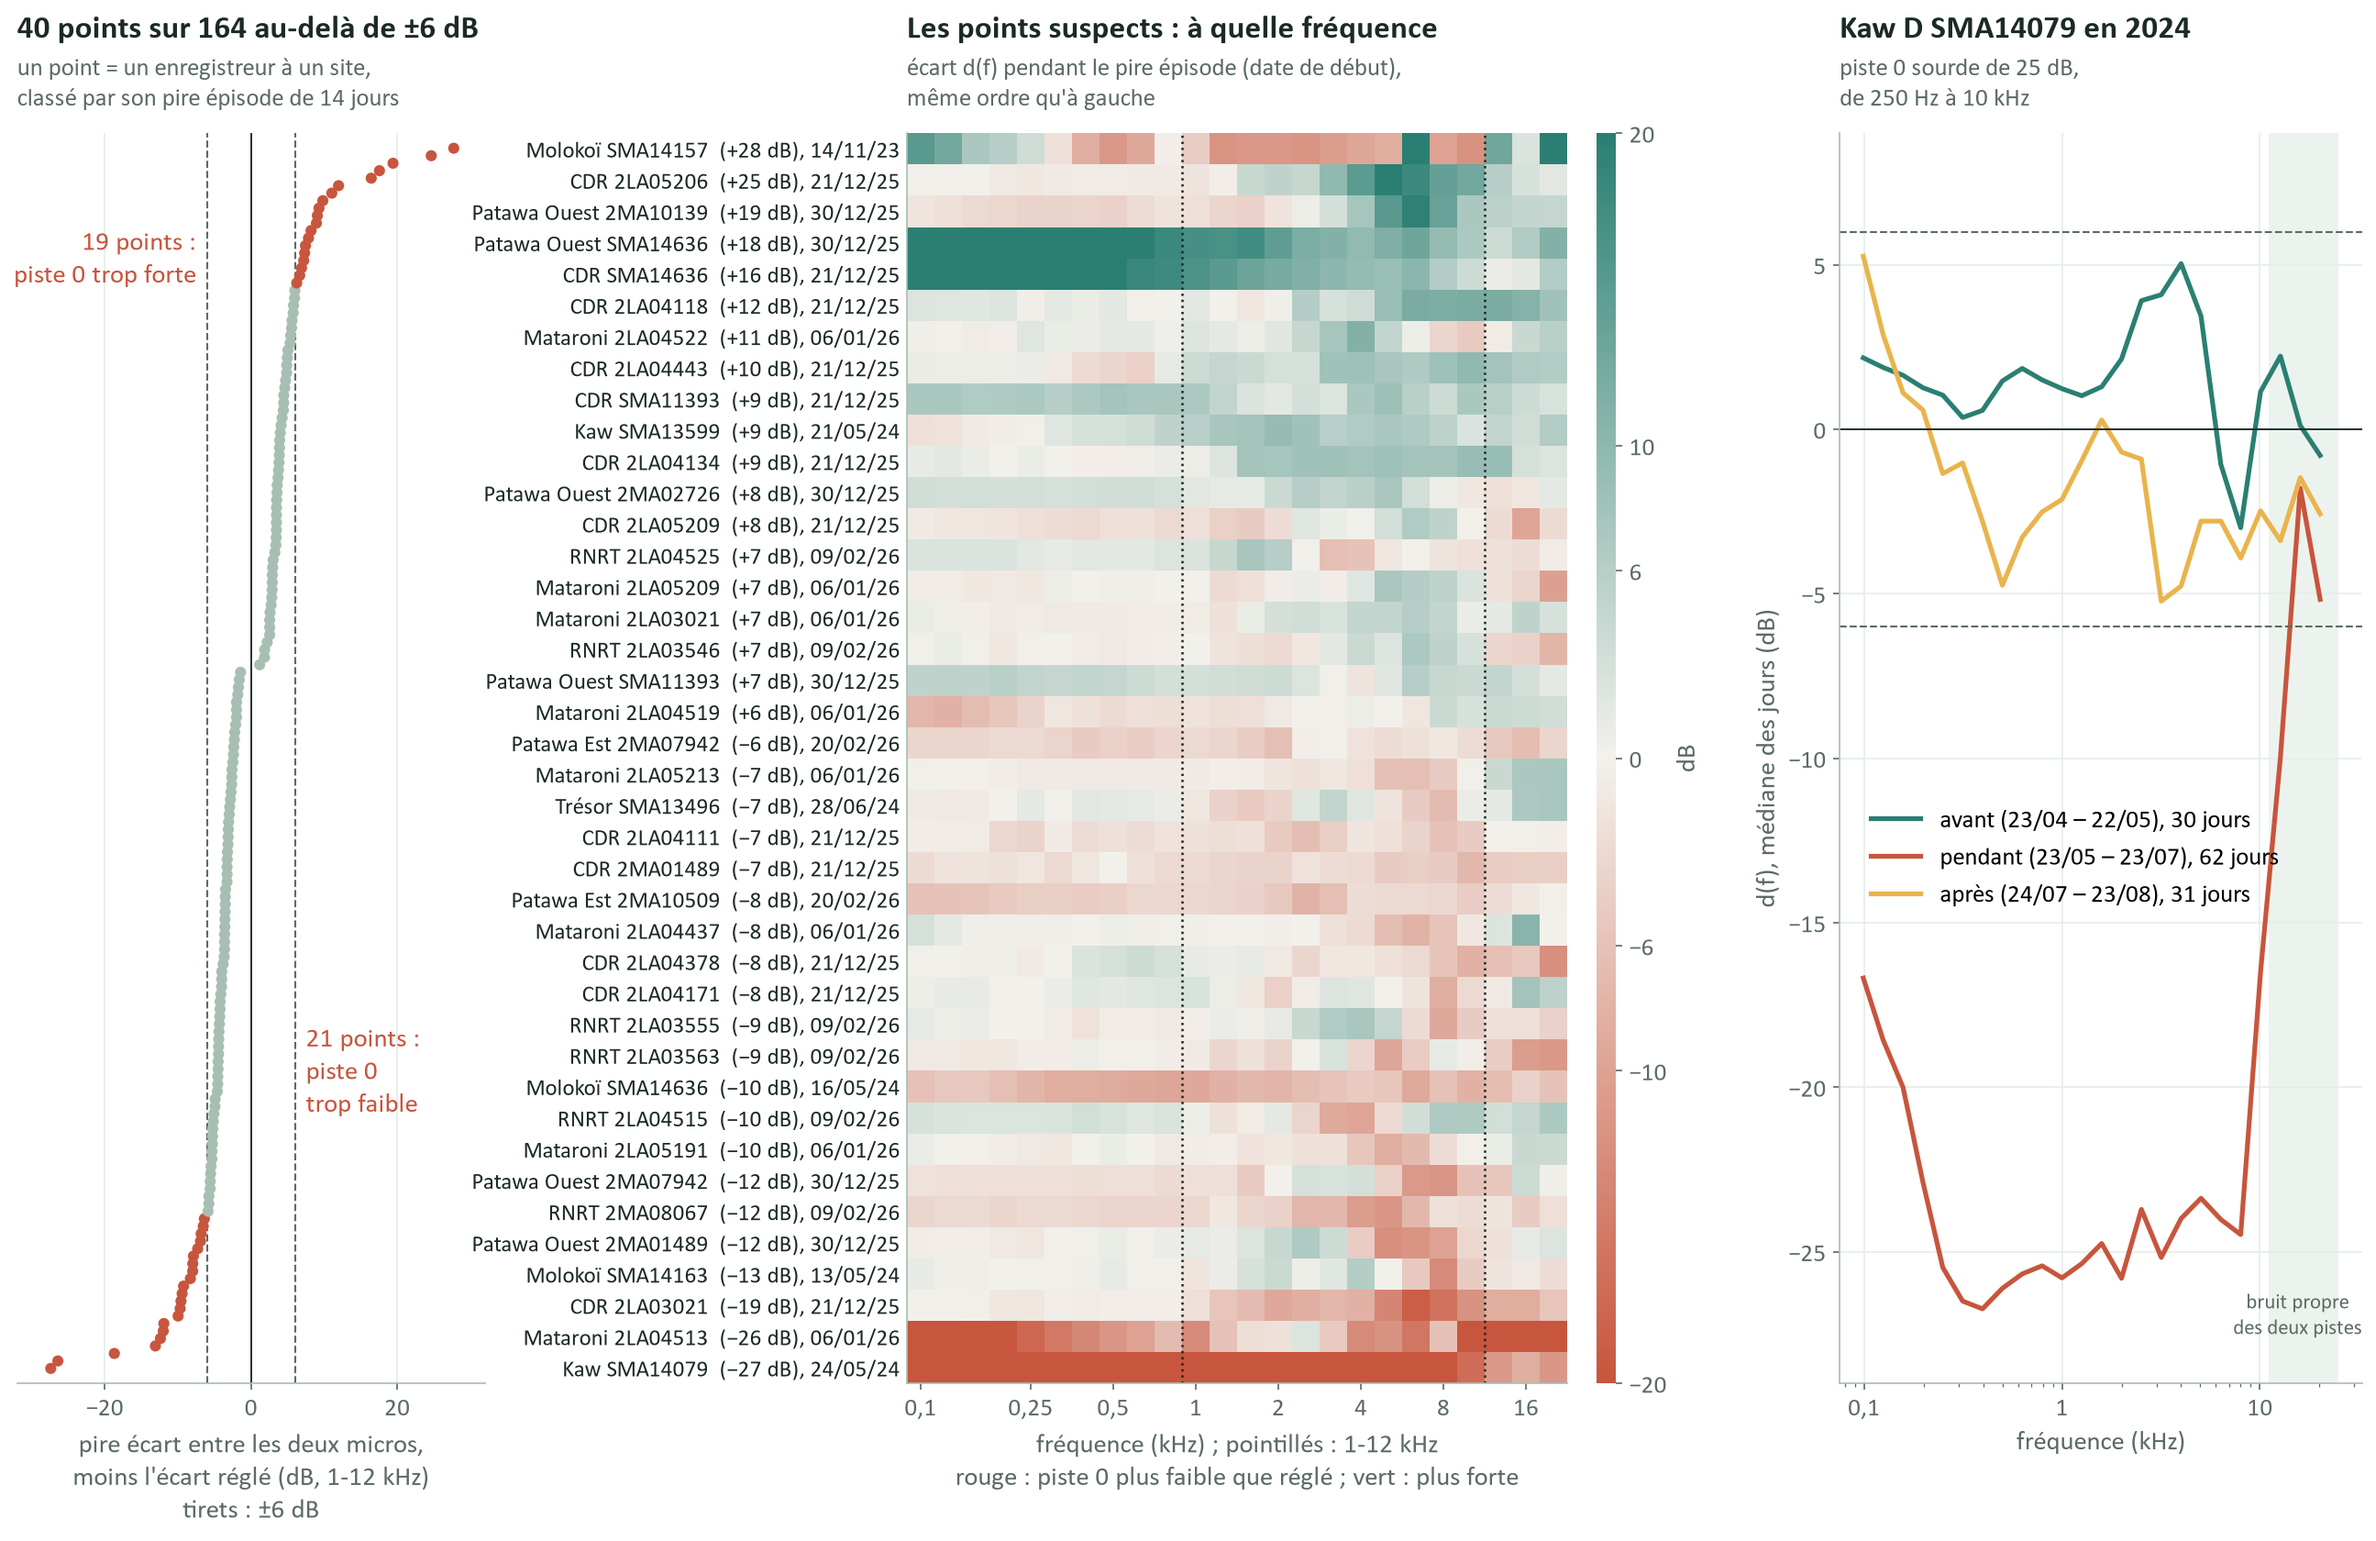
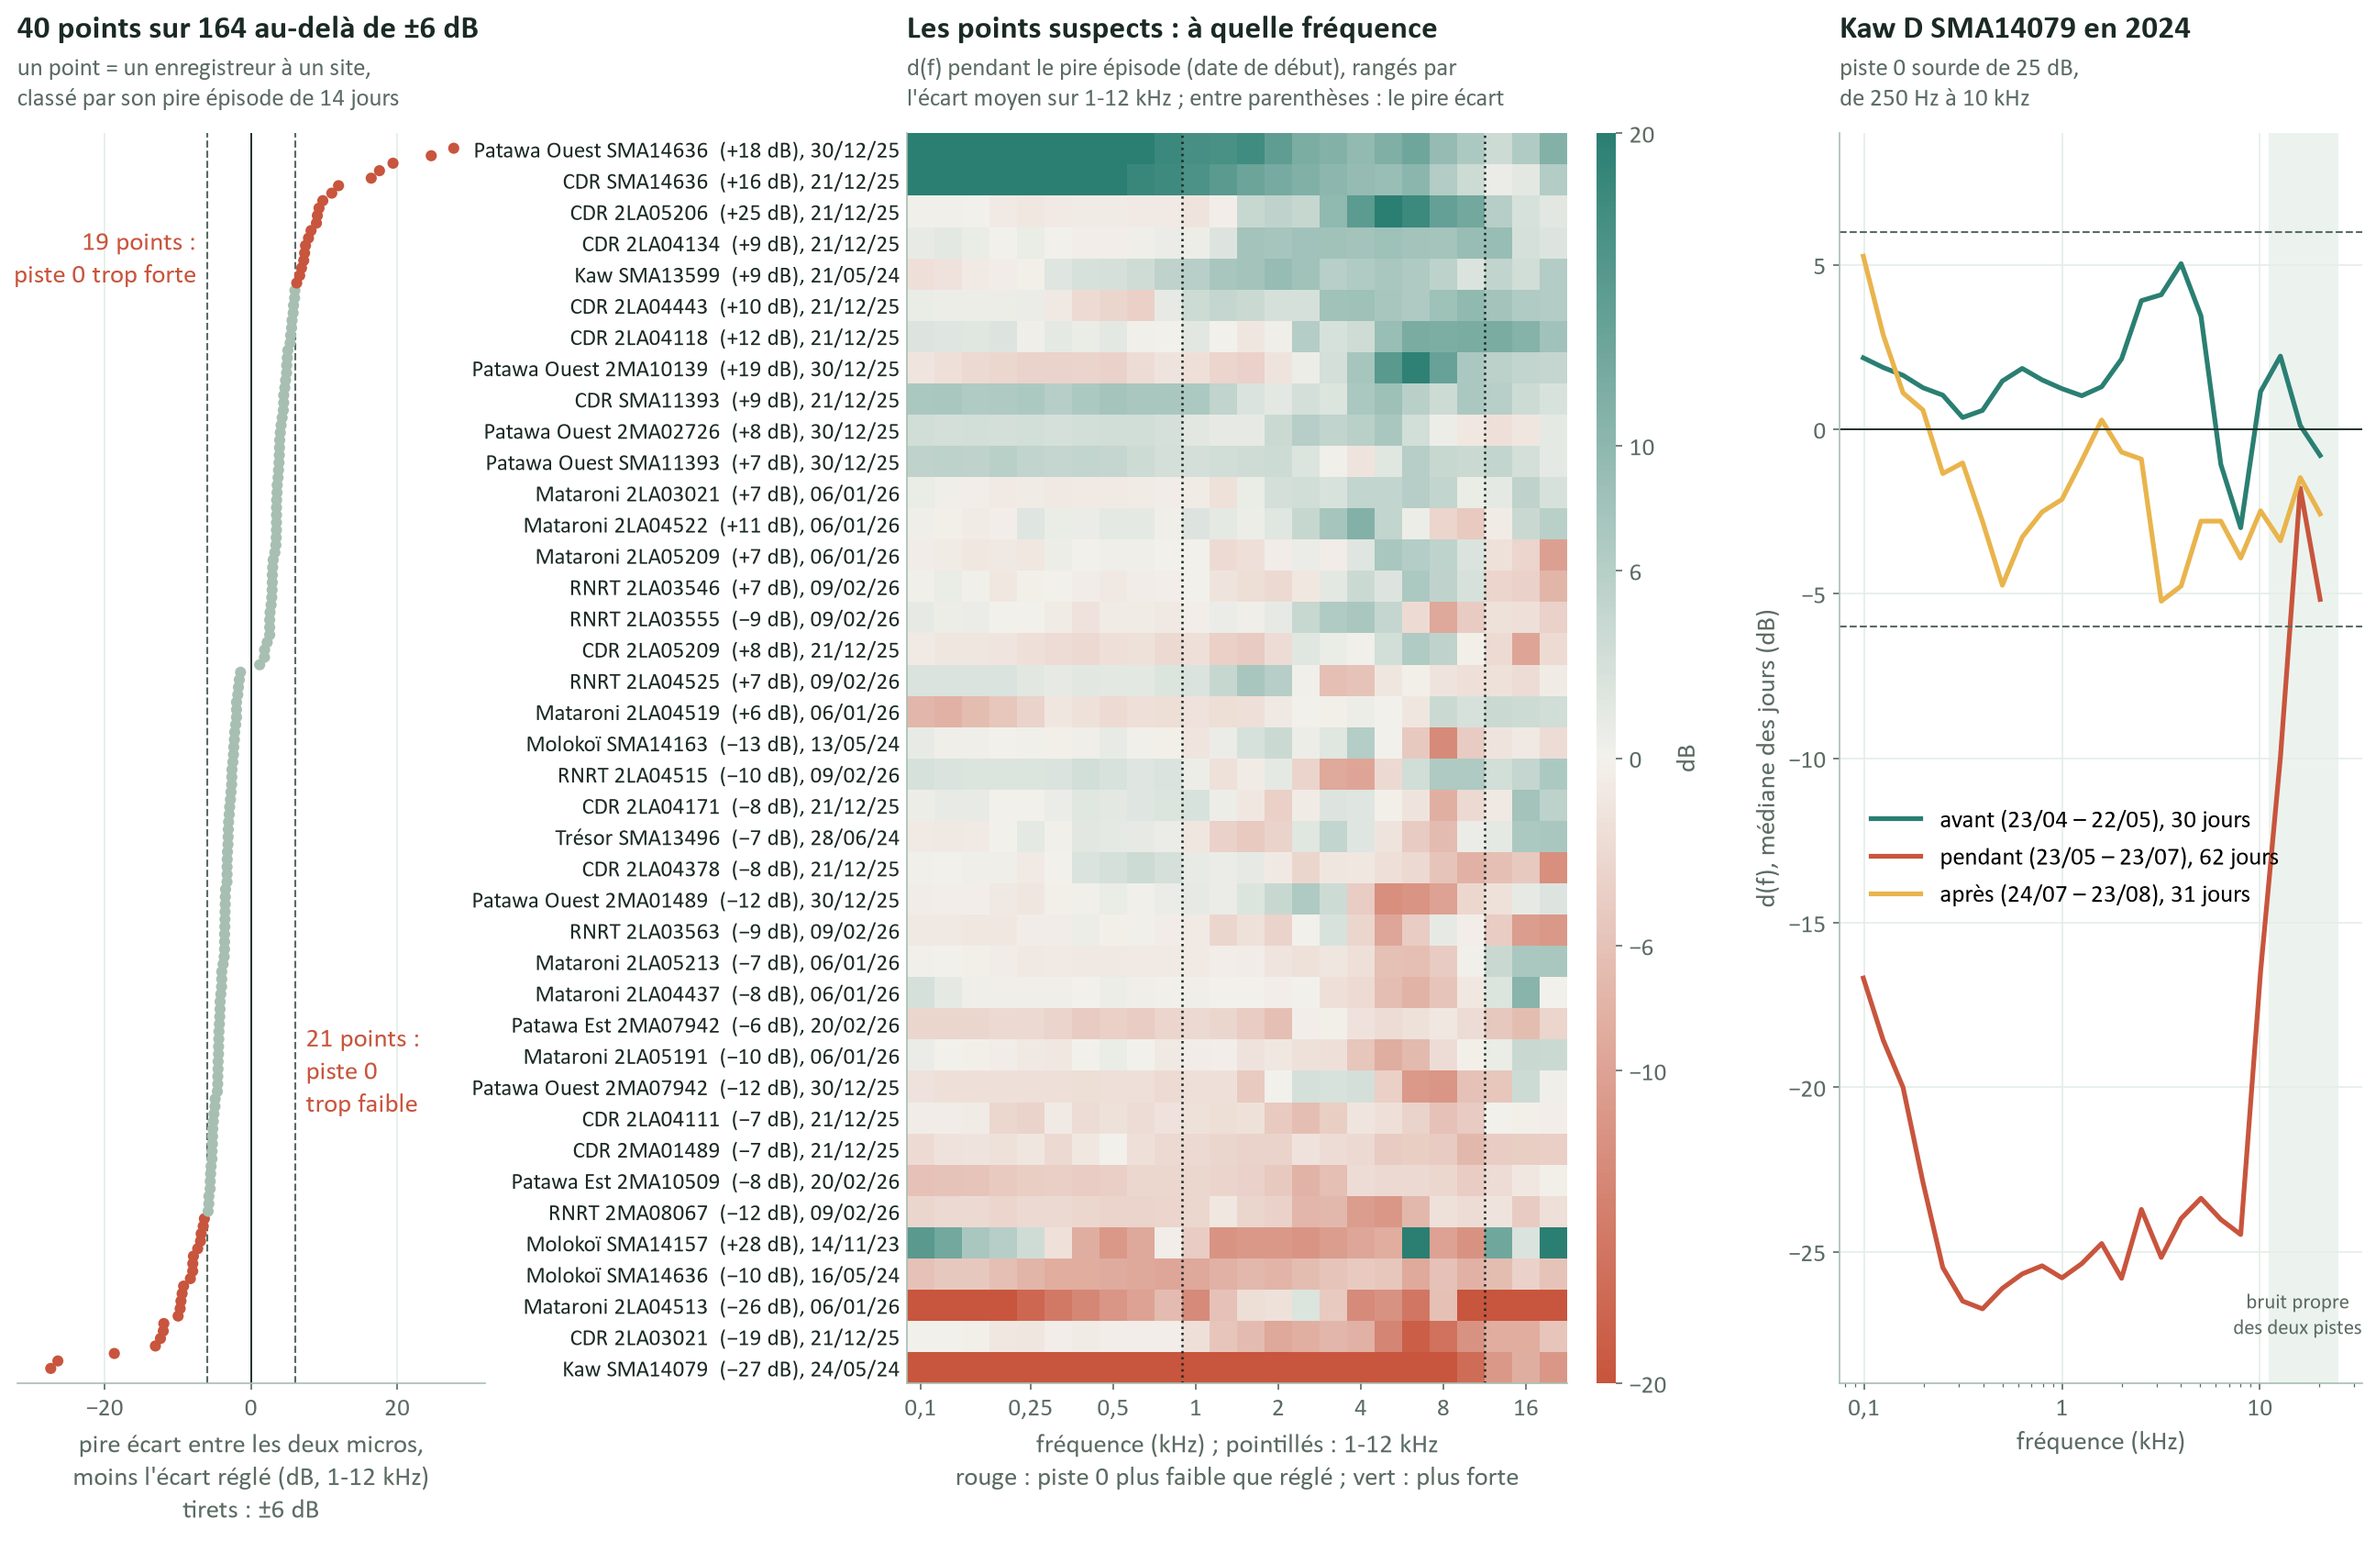
Figure de l'écart de spectre entre pistes : la carte des points suspects est rangée par l'écart moyen sur 1-12 kHz (dégradé du rouge au vert), le pire écart reste en étiquette

diff --git a/documentation/prez/scripts/figure_spectre_pistes.py b/documentation/prez/scripts/figure_spectre_pistes.py
@@ -9,7 +9,8 @@ différence ; un micro qui faiblit, s'étouffe ou crépite d'un seul côté la f
 - à gauche : les 164 points classés par leur pire épisode de deux semaines (médiane glissante
   sur 14 jours de l'écart de plus grand module entre 1 et 12 kHz), ±6 dB en tirets, les points
   au-delà nommés ;
-- au milieu : d(f) de chaque point pendant cet épisode, bande par bande, dans le même ordre ;
+- au milieu : d(f) des points au-delà du seuil pendant cet épisode, bande par bande, rangés par
+  l'écart moyen sur 1-12 kHz (le pire écart en étiquette) ;
 - à droite : d(f) de Kaw D (SMA14079) avant, pendant et après sa perte du 23/05 au 23/07/2024.
 
 Chaque chiffre sort de `blanci/exploration/inventaire.py` (`spectral_gaps`,
@@ -88,7 +89,11 @@ def figure(gaps: pd.DataFrame, pts: pd.DataFrame, out: Path) -> None:
     bands = third_octave_bands(100, 20000)
     cols = [f"d_{n}" for n in bands["name"]]
     pts = pts.reset_index(drop=True).assign(rang=lambda d: np.arange(len(d)))
-    suspects = pts[pts.extreme_db.abs() > SEUIL]
+    inside = np.flatnonzero((bands["name"] >= 1000) & (bands["name"] <= 10000))
+    # Carte : rangée par l'écart moyen sur 1-12 kHz (dégradé lisible), le pire écart en étiquette
+    suspects = (pts[pts.extreme_db.abs() > SEUIL]
+                .assign(moyen=lambda d: d[[cols[i] for i in inside]].mean(axis=1))
+                .sort_values("moyen"))
     n, k = len(pts), len(suspects)
 
     fig = plt.figure(figsize=(22, max(8.5, 2.2 + 0.24 * k)))
@@ -126,7 +131,6 @@ def figure(gaps: pd.DataFrame, pts: pd.DataFrame, out: Path) -> None:
     ticks = [i for i, b in enumerate(bands["name"]) if b in (100, 250, 500, 1000, 2000, 4000,
                                                               8000, 16000)]
     ax.set_xticks(ticks, [f"{b / 1000:g}".replace(".", ",") for b in bands["name"].iloc[ticks]])
-    inside = np.flatnonzero((bands["name"] >= 1000) & (bands["name"] <= 10000))
     for x in (inside[0] - 0.5, inside[-1] + 0.5):
         ax.axvline(x, color=INK, lw=1.2, ls=":")
     noms = [f"{nom(r)}, {r.episode_start:%d/%m/%y}" for r in suspects.itertuples()]
@@ -135,7 +139,8 @@ def figure(gaps: pd.DataFrame, pts: pd.DataFrame, out: Path) -> None:
     ax.set_xlabel("fréquence (kHz) ; pointillés : 1-12 kHz\n"
                   "rouge : piste 0 plus faible que réglé ; vert : plus forte")
     titre(ax, "Les points suspects : à quelle fréquence",
-          "écart d(f) pendant le pire épisode (date de début),\nmême ordre qu'à gauche")
+          "d(f) pendant le pire épisode (date de début), rangés par\n"
+          "l'écart moyen sur 1-12 kHz ; entre parenthèses : le pire écart")
     cb = fig.colorbar(im, cax=fig.add_subplot(grid[3]), ticks=[-20, -10, -6, 0, 6, 10, 20])
     cb.set_label("dB", color=MUTED)
     cb.outline.set_visible(False)
